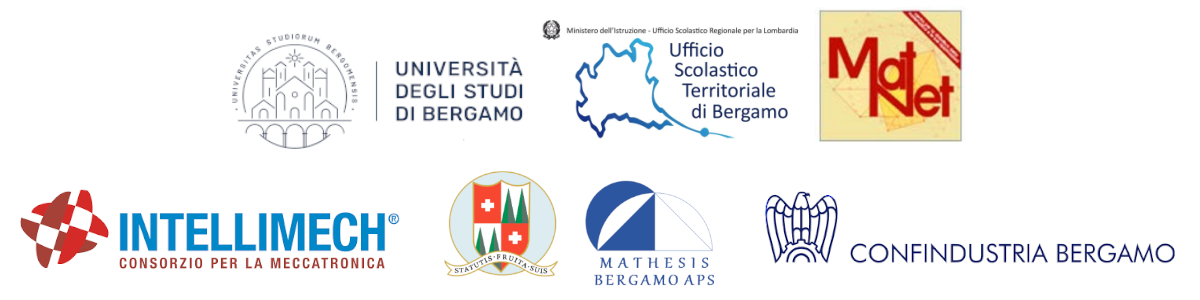
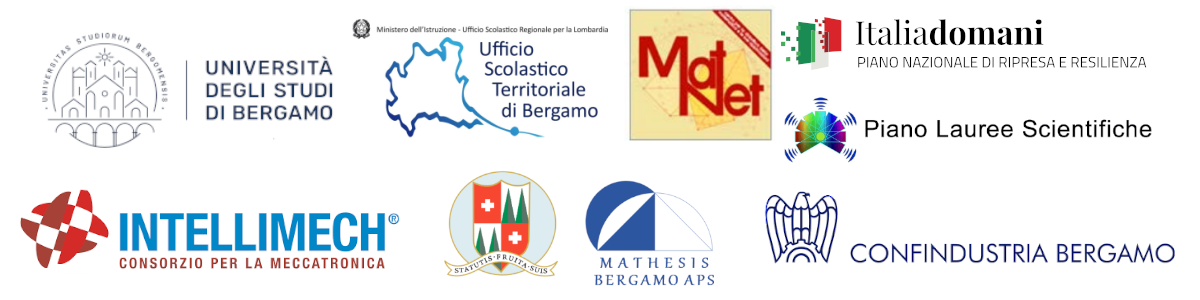
Add files via upload

Changed region(s): [[0.0308, 0.03, 0.9558, 0.54]]

diff --git a/index.html b/index.html
@@ -67,8 +67,8 @@
        <img src="foto_gruppo_thumbnail.jpg" class="w3-image">
        <p><a href="foto_gruppo.jpg" target="_blank">Apri foto a dimensione intera</a></p>
     </div>-->
-  
-    <p class="w3-justify">La Summer School è organizzata dal gruppo di ricerca MATNET-CQIIA dell’Università degli Studi di Bergamo con l’Ufficio Scolastico Regionale per la Lombardia - Ambito Territoriale di Bergamo ed è realizzata dal Dipartimento di Ingegneria Gestionale, dell’Informazione e della Produzione dell’Università degli Studi di Bergamo nell’ambito del progetto “Orientamento attivo nella transizione scuola-università”, Piano Nazionale di Ripresa e Resilienza (PNRR), Missione 4 “Istruzione e ricerca” – Componente 1 “Potenziamento dell’offerta dei servizi all’istruzione: dagli asili nido all’Università”, con il contributo del Comune di S. Pellegrino Terme, la collaborazione dell’ISIS “Turoldo” di Zogno, dell’IS S. Pellegrino Terme, della Mathesis Bergamo, di Confindustria Bergamo e Intellimech.</p>
+
+    <p class="w3-justify">La Summer School è organizzata dal gruppo di ricerca MATNET-CQIIA dell’Università degli Studi di Bergamo con l’Ufficio Scolastico Regionale per la Lombardia - Ambito Territoriale di Bergamo ed è realizzata dal Dipartimento di Ingegneria Gestionale, dell’Informazione e della Produzione dell’Università degli Studi di Bergamo nell’ambito del progetto “Orientamento attivo nella transizione scuola-università”, Piano Nazionale di Ripresa e Resilienza (PNRR), Missione 4 “Istruzione e ricerca” – Componente 1 “Potenziamento dell’offerta dei servizi all’istruzione: dagli asili nido all’Università” e del Piano Lauree Scientifiche (PLS), con il contributo del Comune di S. Pellegrino Terme, la collaborazione dell’ISIS “Turoldo” di Zogno, dell’IS S. Pellegrino Terme, della Mathesis Bergamo, di Confindustria Bergamo e Intellimech.</p>
     
     <p class="w3-justify">L’iniziativa ha il fine di avvicinare gli studenti degli ultimi due anni delle scuole superiori a tematiche relative alle discipline scientifiche e di offrire l’opportunità di partecipare ad un’esperienza orientativa in vista della loro futura scelta post-diploma, attraverso un percorso articolato in lezioni frontali e in laboratori.</p>
     
